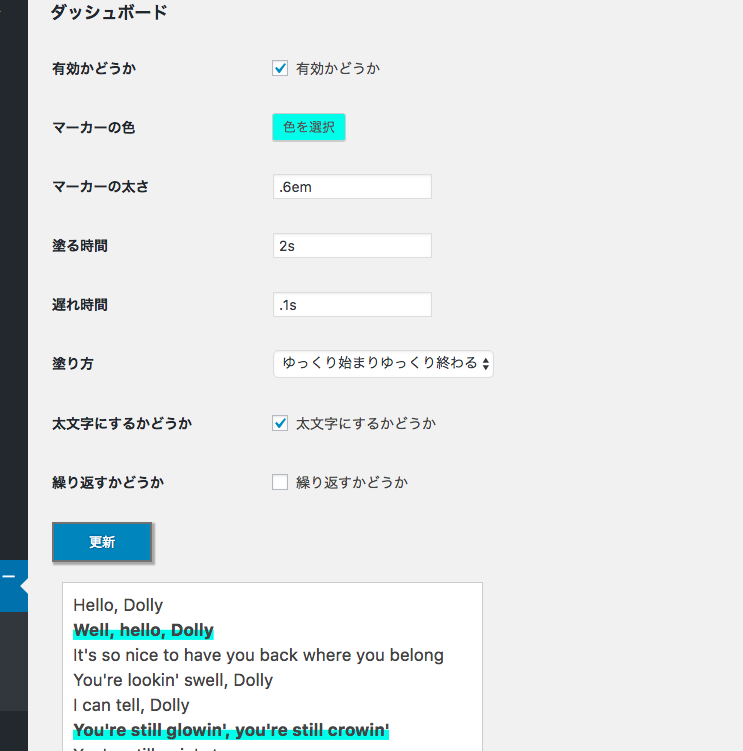
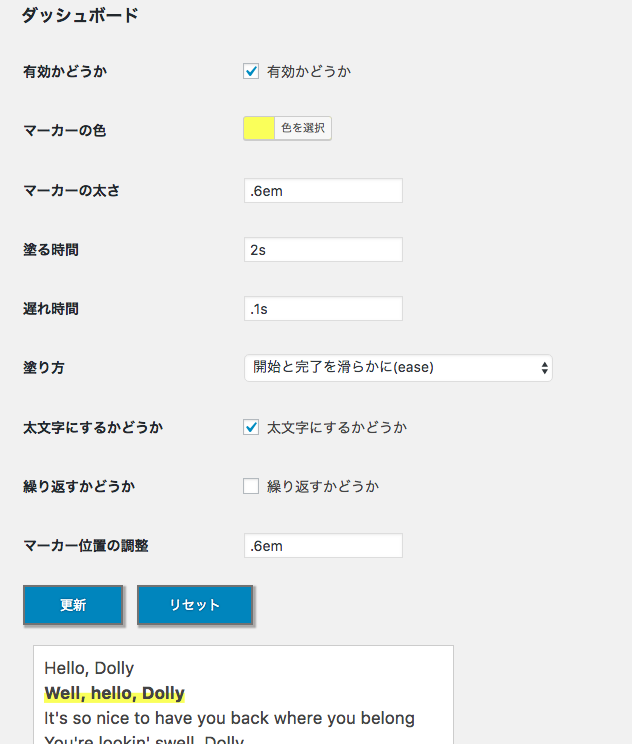
ドキュメント更新

diff --git a/README.md b/README.md
@@ -8,6 +8,8 @@
 
 蛍光ペンで塗るようなアニメーションを表示する機能を追加するプラグインです。
 
+[WordPress公式ディレクトリ](https://ja.wordpress.org/plugins/marker-animation/)
+
 ## スクリーンショット
 - 動作
 
@@ -72,8 +74,5 @@
 ### 繰り返すかどうか
 画面から外れた後に再び表示された場合に再度アニメーションを行うかどうかを設定します。
 
-### マーカー位置の下方向への調整
-マーカーの表示位置を下方向へ調整する値を設定します。
-
-### マーカー位置の上方向への調整
-マーカーの表示位置を上方向へ調整する値を設定します。
+### マーカー位置の調整
+マーカーの表示位置を調整する値を設定します。
